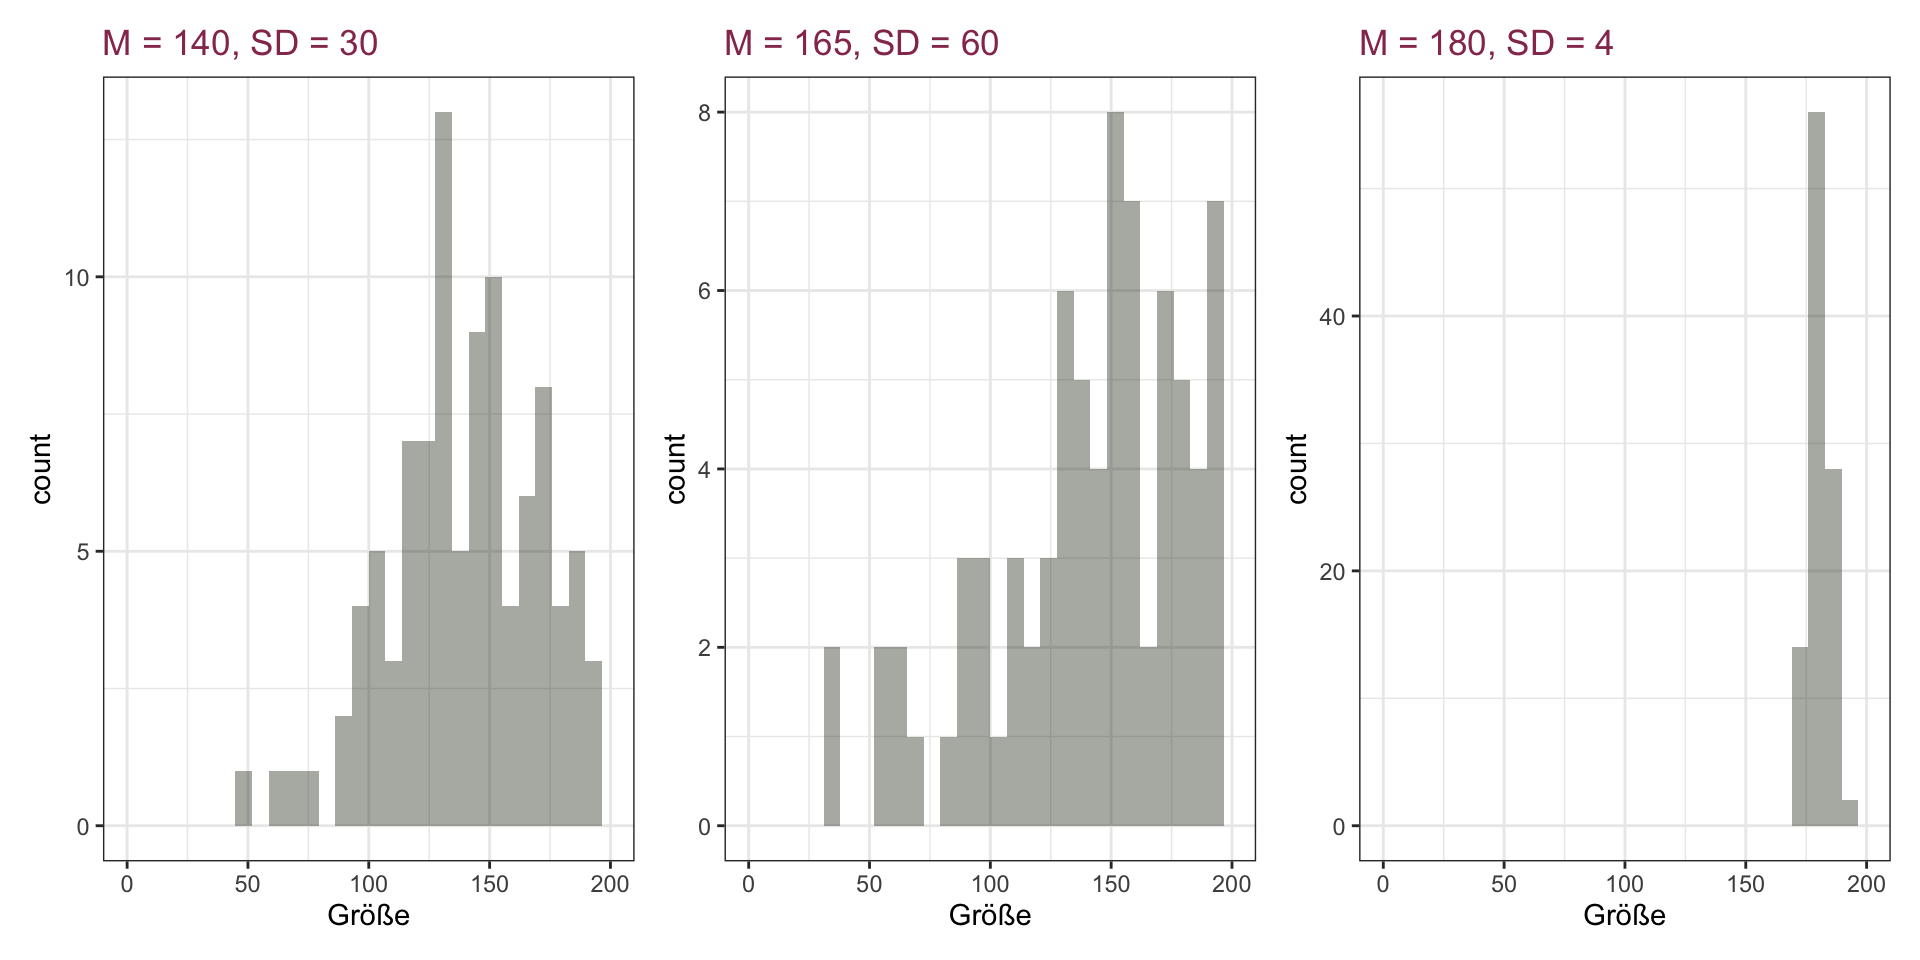
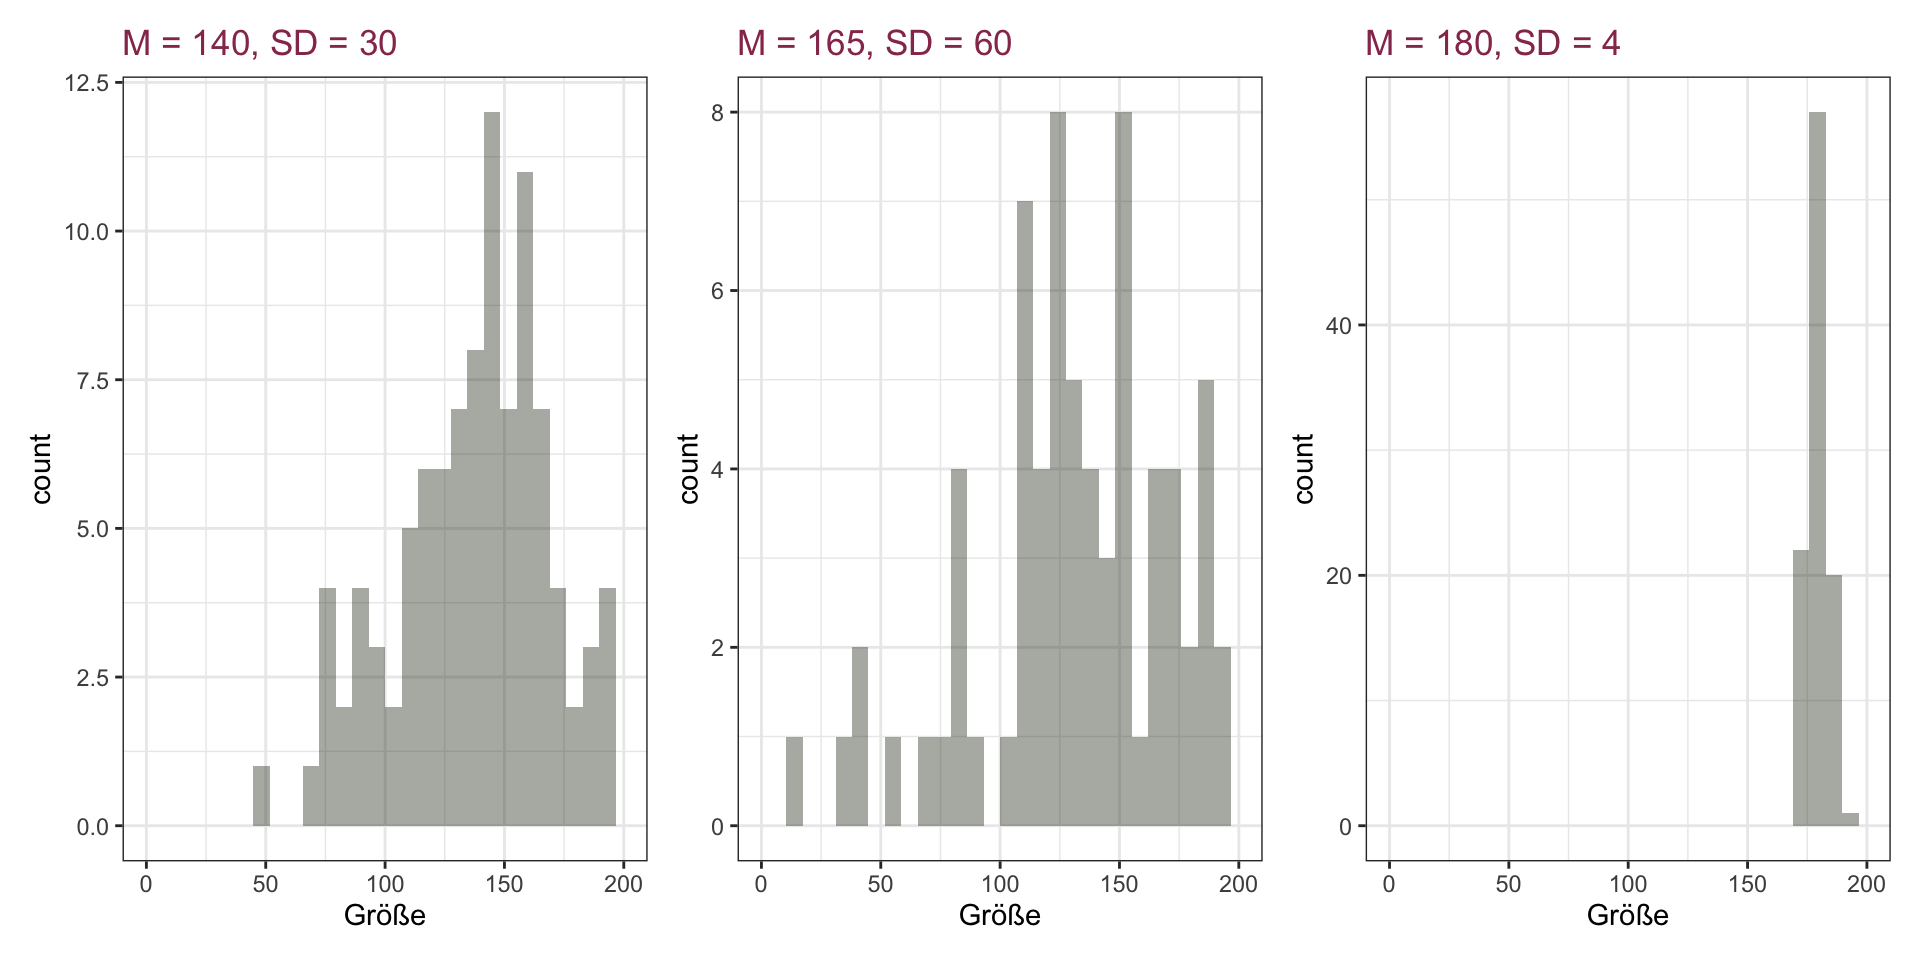
finish slides w3

diff --git a/docs/Sitzung_3.html b/docs/Sitzung_3.html
@@ -271,118 +271,118 @@ Eva Scheel
 <div class="cell">
 <div class="cell-output cell-output-stdout">
 <pre><code>    groesse_cm
-1        128.2
-2        143.6
-3        150.3
-4        138.3
-5        141.5
-6        121.0
-7        146.8
-8        137.0
-9        127.0
-10       145.4
-11       154.6
-12       136.5
-13       136.3
-14       140.6
-15       151.2
-16       142.9
-17       117.8
-18       114.0
-19       147.3
-20       135.6
-21       156.5
-22       141.9
-23       144.0
-24       144.3
-25       140.3
-26       148.4
-27       129.5
-28       138.1
-29       142.7
-30       126.7
-31       142.2
-32       139.1
-33       127.0
-34       131.3
-35       121.0
-36       147.7
-37       147.5
-38       138.5
-39       135.1
-40       146.1
-41       126.3
-42       136.9
-43       132.0
-44       149.2
-45       138.8
-46       152.7
-47       139.7
-48       131.1
-49       162.9
-50       141.0
-51       139.8
-52       143.1
-53       134.1
-54       139.2
-55       132.9
-56       135.4
-57       138.3
-58       136.4
-59       142.4
-60       149.8
-61       132.7
-62       134.7
-63       142.3
-64       124.1
-65       130.9
-66       144.0
-67       139.9
-68       140.0
-69       154.5
-70       122.3
-71       144.7
-72       147.0
-73       158.8
-74       143.6
-75       136.8
-76       146.3
-77       136.3
-78       158.7
-79       122.0
-80       127.4
-81       144.2
-82       169.2
-83       136.1
-84       149.9
-85       116.4
-86       137.9
-87       144.2
-88       156.8
-89       132.3
-90       141.6
-91       134.9
-92       134.9
-93       165.4
-94       134.3
-95       144.3
-96       121.8
-97       147.1
-98       142.6
-99       141.3
-100      129.7</code></pre>
+1        144.6
+2        162.4
+3        118.1
+4        128.5
+5        146.8
+6        134.2
+7        128.3
+8        147.1
+9        144.5
+10       142.3
+11       130.8
+12       131.9
+13       138.6
+14       138.0
+15       135.6
+16       127.0
+17       119.8
+18       126.5
+19       134.4
+20       149.2
+21       139.6
+22       141.8
+23       145.0
+24       145.3
+25       142.0
+26       138.4
+27       129.9
+28       133.4
+29       124.7
+30       139.9
+31       139.0
+32       140.0
+33       138.1
+34       151.4
+35       129.9
+36       149.2
+37       141.5
+38       141.7
+39       141.7
+40       134.4
+41       144.1
+42       115.9
+43       129.3
+44       135.1
+45       139.2
+46       151.7
+47       148.2
+48       129.6
+49       138.1
+50       132.8
+51       154.6
+52       123.9
+53       132.4
+54       139.1
+55       130.4
+56       124.9
+57       130.7
+58       130.3
+59       151.7
+60       143.1
+61       148.1
+62       131.5
+63       134.6
+64       159.4
+65       139.6
+66       144.5
+67       133.1
+68       123.5
+69       136.0
+70       143.9
+71       154.5
+72       140.6
+73       136.1
+74       147.1
+75       129.5
+76       120.9
+77       137.4
+78       134.7
+79       136.6
+80       128.9
+81       138.4
+82       150.7
+83       121.4
+84       131.7
+85       142.1
+86       159.2
+87       142.8
+88       132.8
+89       132.1
+90       145.2
+91       133.7
+92       137.9
+93       130.4
+94       156.6
+95       153.1
+96       137.9
+97       144.4
+98       141.8
+99       146.4
+100      137.1</code></pre>
 </div>
 </div>
 </div><div class="column">
 <div class="cell">
 <div class="cell-output cell-output-stdout">
-<pre><code>[1] "Anzahl Schüler:innen100"</code></pre>
+<pre><code>[1] "Anzahl Schüler:innen: 100"</code></pre>
 </div>
 <div class="cell-output cell-output-stdout">
-<pre><code>[1] "Höchstwert: 114"</code></pre>
+<pre><code>[1] "Höchstwert: 115.9"</code></pre>
 </div>
 <div class="cell-output cell-output-stdout">
-<pre><code>[1] "Tiefstwert: 169.2"</code></pre>
+<pre><code>[1] "Tiefstwert: 162.4"</code></pre>
 </div>
 </div>
 </div></div>
@@ -395,7 +395,7 @@ Eva Scheel
 <div class="cell">
 <div class="code-copy-outer-scaffold"><div class="sourceCode cell-code" id="cb5"><pre class="sourceCode numberSource r number-lines code-with-copy"><code class="sourceCode r"><span id="cb5-1"><a></a><span class="fu">mean</span>(heights<span class="sc">$</span>groesse_cm)</span></code></pre></div><button title="Copy to Clipboard" class="code-copy-button"><i class="bi"></i></button></div>
 <div class="cell-output cell-output-stdout">
-<pre><code>[1] 139.577</code></pre>
+<pre><code>[1] 138.168</code></pre>
 </div>
 </div>
 <p>Bezeichnung: <span class="math inline">\(M=`m`\)</span> oder <span class="math inline">\(\bar{x}\)</span></p>
@@ -423,21 +423,21 @@ Eva Scheel
 </div>
 <div class="code-copy-outer-scaffold"><div class="sourceCode cell-code" id="cb9"><pre class="sourceCode numberSource r number-lines code-with-copy"><code class="sourceCode r"><span id="cb9-1"><a></a>sorted_heights</span></code></pre></div><button title="Copy to Clipboard" class="code-copy-button"><i class="bi"></i></button></div>
 <div class="cell-output cell-output-stdout">
-<pre><code>  [1] 114.0 116.4 117.8 121.0 121.0 121.8 122.0 122.3 124.1 126.3 126.7 127.0
- [13] 127.0 127.4 128.2 129.5 129.7 130.9 131.1 131.3 132.0 132.3 132.7 132.9
- [25] 134.1 134.3 134.7 134.9 134.9 135.1 135.4 135.6 136.1 136.3 136.3 136.4
- [37] 136.5 136.8 136.9 137.0 137.9 138.1 138.3 138.3 138.5 138.8 139.1 139.2
- [49] 139.7 139.8 139.9 140.0 140.3 140.6 141.0 141.3 141.5 141.6 141.9 142.2
- [61] 142.3 142.4 142.6 142.7 142.9 143.1 143.6 143.6 144.0 144.0 144.2 144.2
- [73] 144.3 144.3 144.7 145.4 146.1 146.3 146.8 147.0 147.1 147.3 147.5 147.7
- [85] 148.4 149.2 149.8 149.9 150.3 151.2 152.7 154.5 154.6 156.5 156.8 158.7
- [97] 158.8 162.9 165.4 169.2</code></pre>
+<pre><code>  [1] 115.9 118.1 119.8 120.9 121.4 123.5 123.9 124.7 124.9 126.5 127.0 128.3
+ [13] 128.5 128.9 129.3 129.5 129.6 129.9 129.9 130.3 130.4 130.4 130.7 130.8
+ [25] 131.5 131.7 131.9 132.1 132.4 132.8 132.8 133.1 133.4 133.7 134.2 134.4
+ [37] 134.4 134.6 134.7 135.1 135.6 136.0 136.1 136.6 137.1 137.4 137.9 137.9
+ [49] 138.0 138.1 138.1 138.4 138.4 138.6 139.0 139.1 139.2 139.6 139.6 139.9
+ [61] 140.0 140.6 141.5 141.7 141.7 141.8 141.8 142.0 142.1 142.3 142.8 143.1
+ [73] 143.9 144.1 144.4 144.5 144.5 144.6 145.0 145.2 145.3 146.4 146.8 147.1
+ [85] 147.1 148.1 148.2 149.2 149.2 150.7 151.4 151.7 151.7 153.1 154.5 154.6
+ [97] 156.6 159.2 159.4 162.4</code></pre>
 </div>
 </div>
 <div class="cell">
 <div class="code-copy-outer-scaffold"><div class="sourceCode cell-code" id="cb11"><pre class="sourceCode numberSource r number-lines code-with-copy"><code class="sourceCode r"><span id="cb11-1"><a></a><span class="fu">median</span>(heights<span class="sc">$</span>groesse_cm)</span></code></pre></div><button title="Copy to Clipboard" class="code-copy-button"><i class="bi"></i></button></div>
 <div class="cell-output cell-output-stdout">
-<pre><code>[1] 139.85</code></pre>
+<pre><code>[1] 138.1</code></pre>
 </div>
 </div>
 
@@ -464,9 +464,9 @@ Eva Scheel
 <div class="cell-output cell-output-stdout">
 <pre><code>
    Biologie      Chemie     Deutsch    Englisch Französisch  Mathematik 
-         15          17          17          14          16          10 
+         17          20          20          14          11          22 
       Musik      Physik       Sport 
-         24          19          18 </code></pre>
+         17          17          12 </code></pre>
 </div>
 </div>
 <p>Anzahl Schüler:innen pro Hobby:</p>
@@ -474,9 +474,9 @@ Eva Scheel
 <div class="cell-output cell-output-stdout">
 <pre><code>
      Backgammon       Hula_Hoop      Kanufahren Modelleisenbahn         Posaune 
-             23              23              25              33              19 
+             22              18              29              30              35 
    Seilspringen 
-             27 </code></pre>
+             16 </code></pre>
 </div>
 </div>
 <p><span class="absolute" style="font-size: 70%; color: #6f5c7dea; bottom: 10px; ">*Erfundener Datensatz!</span></p>
@@ -496,20 +496,20 @@ Eva Scheel
 <div class="cell-output cell-output-stdout">
 <pre><code>                 
                   Biologie Chemie Deutsch Englisch Französisch Mathematik Musik
-  Backgammon             3      4       1        0           1          2     5
-  Hula_Hoop              2      2       4        2           3          2     3
-  Kanufahren             2      2       2        1           2          1     2
-  Modelleisenbahn        2      2       5        3           5          1     8
-  Posaune                3      3       0        3           2          2     3
-  Seilspringen           3      4       5        5           3          2     3
+  Backgammon             2      4       2        0           3          5     2
+  Hula_Hoop              2      3       1        3           1          4     1
+  Kanufahren             1      6       4        3           3          2     3
+  Modelleisenbahn        3      3       4        3           1          2     7
+  Posaune                6      3       7        4           1          8     2
+  Seilspringen           3      1       2        1           2          1     2
                  
                   Physik Sport
-  Backgammon           5     2
-  Hula_Hoop            3     2
-  Kanufahren           7     6
-  Modelleisenbahn      2     5
-  Posaune              1     2
-  Seilspringen         1     1</code></pre>
+  Backgammon           3     1
+  Hula_Hoop            2     1
+  Kanufahren           4     3
+  Modelleisenbahn      4     3
+  Posaune              2     2
+  Seilspringen         2     2</code></pre>
 </div>
 </div>
 </section>
